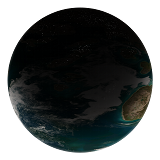
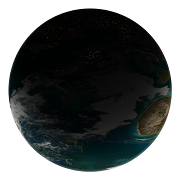
rescale images to be the same size, other misc

diff --git a/index.html b/index.html
@@ -24,12 +24,12 @@
 				<p>Unzip the latest release to your plugins folder found here:<br><strong>Linux:</strong> ~/.local/share/endless-sky/<br><strong>Windows:</strong> %AppData%\endless-sky\<br><strong>Mac OS X:</strong> ~/Library/ApplicationSupport/endless-sky/</p>
 			</header>
 			<section>
-				<h3>About</h3>
+				<h2>About</h2>
 				<img alt="Planet" src="images/v_homeworld.png" title="The Valuutian Homeworld"/>
 				<p>This plugin introduces two new factions, the Valuutians and the Lost Ones. The Valuutians are an alien species inhabiting a small sector of space northeast of Unfettered Hai territory. An ancient people wary of contact with outsiders, this species has only recently begun colonizing other planets in their sector.</p>
 				<img alt="Planet" src="images/lo_homeworld.png" title="The Lost Ones Homeworld"/>
 				<p>The Lost Ones are a human faction, descendants of a crew of privately funded scientists and engineers who ended up in Valuutian space. After the Valuutians welcomed these strange new creatures into their society, many humans grew dissatisfied with their lack of standing in the Valuut government and staged a series of peaceful protests to gain independence. Massive public pressure from the younger generation of Valuutians, who quickly became enamored with human culture, resulted in the Valuut government granting the newly formed Lost Ones nation-state status.</p>
-				<h3>Content</h3>
+				<h2>Content</h2>
 				<img alt="Spaceship" src="images/wireframe.png" title="Twin Crescent in Blender"/>
 				<p>This plugin is a work in progress, with new content often being added. It currently contains:</p>
 				<ul>

diff --git a/stylesheets/styles.css b/stylesheets/styles.css
@@ -157,7 +157,10 @@ img {
   max-width:100%;
   display: block;
   margin-left: auto;
-  margin-right: auto 
+  margin-right: auto;
+  background:#000000;
+  border-radius:9px;
+  border:1px solid #989898;
 }
 
 header {
@@ -173,7 +176,7 @@ header ul {
   padding:0;
   background: #f4f4f4;
   border-radius:5px;
-  border:1px solid #e0e0e0;
+  border:1px solid #989898;
   width:270px;
 }
 
@@ -239,7 +242,7 @@ section p {
   line-height: 160%;
 }
 
-section h3 {
+section h2 {
   text-align: center;
 }
 
